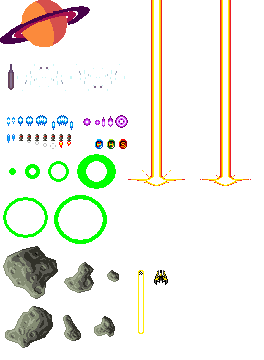
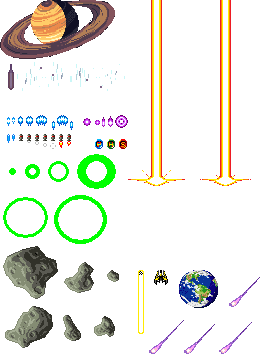
Polished some decorations in vertical levels

diff --git a/src/js/scenes/verticalLevels/VerticalBackground.js b/src/js/scenes/verticalLevels/VerticalBackground.js
@@ -18,31 +18,36 @@ export default class VerticalBackground extends Background{
         //decorations:
         for (let i = 0; i < st["planets"].length; i++) {
             const objSt = st["planets"][i];
-            Utils.createAnimFromAtlas(this.scene, objSt["sprite"]+"0"+i, "verticalAtlas", objSt["sprite"], 0, 2, 1, 0);
+            let numFrames = objSt["frames"] != null && objSt["frames"] > 1 ? objSt["frames"] - 1 : 0;
+            Utils.createAnimFromAtlas(this.scene, objSt["sprite"]+"0"+i, "verticalAtlas", objSt["sprite"], numFrames, 2, 10, -1);
             let obj = { 
                 "sprite": this.scene.add.sprite(5, 10, 'verticalAtlas', objSt["sprite"]+"0"+i), 
                 "x": objSt["x"], "y": objSt["y"], "z": objSt["z"],
                 "speedX": objSt["speedX"], "speedY": objSt["speedY"]
             }
+            //this.scene.physics.add.existing(obj.sprite);
+            //this.scene.physics.world.enable(obj.sprite); 
             obj.sprite.x = obj.x;
             obj.sprite.y = obj.y;
+            //obj.sprite.setVelocity(objSt["speedX"],objSt["speedY"]);
             this.decorations.push(obj);
+            if (numFrames > 0) { obj.sprite.play(objSt["sprite"]+"0"+i); }
         }
 
         for (let i = 0; i < st["particles"].length; i++) {
             const objSt = st["particles"][i];
+            let numFrames = objSt["frames"] != null && objSt["frames"] > 1 ? objSt["frames"] - 1 : 0;
             for(let j = 0; j < objSt["density"]; j++){
-                const objSt = st["particles"][i];
-                Utils.createAnimFromAtlas(this.scene, objSt["sprite"]+"0"+i, "verticalAtlas", objSt["sprite"], 0, 1, 1, 0);
+                Utils.createAnimFromAtlas(this.scene, objSt["sprite"]+"0"+i, "verticalAtlas", objSt["sprite"], numFrames, 2, 10, -1);
                 let obj = { 
-                    "sprite": this.scene.add.sprite(5, 10, 'verticalAtlas', objSt["sprite"]+"0"+i), 
-                    "speedX": objSt["speedX"], "speedY": objSt["speedY"]
+                    "sprite": this.scene.add.sprite(0, 0, 'verticalAtlas', objSt["sprite"]+"0"+i), 
+                    "minSpeedY": objSt["minSpeedY"], "maxSpeedY": objSt["maxSpeedY"]
                 }
 
                 obj.sprite.x = Math.floor(Phaser.Math.Between(0, SCREEN_WIDTH));
                 obj.sprite.y = Math.floor(Phaser.Math.Between(-100, -50));
                 obj.sprite.setDepth(0);
-                obj.speedY   = Math.floor(Phaser.Math.Between(   1,  5));
+                obj.speedY   = Math.floor(Phaser.Math.Between(obj.minSpeedY, obj.maxSpeedY));
                 this.particles.push(obj);
             }
         }
@@ -50,51 +55,74 @@ export default class VerticalBackground extends Background{
         this.destinImg = this.scene.add.image(VERTICAL_LEVELS_WIDTH/2, 0, this.scene.destination).setOrigin(0.5, 0);
         this.destinImg.rotation += Math.PI;
         this.destinImg.setDepth(2);
+        this.countdown = 150;
     }
 
     launch(){
-        this.auxSpeed += 0.035;
-        if(this.planetImg.y < VERTICAL_LEVELS_HEIGHT + this.planetImg.height + this.framesToReachSpace){
-            this.planetImg.y += this.auxSpeed;
+        if(this.countdown >= 0){ this.countdown--; }
+        else {
+            this.scene.player.play("UP",true);
+            this.auxSpeed += 0.02;
+            if(this.planetImg.y < VERTICAL_LEVELS_HEIGHT + this.planetImg.height + this.framesToReachSpace){
+                this.planetImg.y += this.auxSpeed;
+            }
+            else if (this.atmosphere.alpha > 0){
+                this.atmosphere.alpha -= 0.004;
+                this.scene.player.y   -= SPACESHIP_SPEED;
+            }
+            else{ 
+                this.scene.player.speedY = -SPACESHIP_SPEED*2;
+                this.scene.introDone = true;
+            }
         }
-        else if (this.atmosphere.alpha > 0){
-            this.atmosphere.alpha -= 0.002;
-            this.scene.player.y   -= SPACESHIP_SPEED;
-        }
-        else{ 
-            this.scene.player.speedY = -SPACESHIP_SPEED*2;
-            this.scene.introDone = true;
-        }
+        this.update();
     }
 
     update(){
-        if(!this.scene.checkEndOfGame() || false){ //this.scene.enemiesGroup.getLength() > 0
-            for(let i = 0; i < this.decorations.length; i++){
-                let myObj = this.decorations[i];
-                myObj["sprite"].x += myObj.speedX / myObj.z;
-                myObj["sprite"].y = (myObj.speedY + this.scene.distanceReached) / myObj.z;
+        this.updateDecorations();
+        this.updateParticles();
+    }
+
+    updateDecorations(){
+        let st = this.scene.st["decorations"];
+        for(let i = 0; i < this.decorations.length; i++){
+            const objSt = st["planets"][i];
+            let myObj = this.decorations[i];
+            //myObj["sprite"].x = objSt.x;
+            myObj["sprite"].x += myObj.speedX / myObj.z;
+
+            if(this.scene.distanceReached <= 0 || this.scene.checkEndOfGame()){
+                myObj["sprite"].y += myObj.speedY / myObj.z;
+                objSt.y = myObj["sprite"].y
             }
-    
-            for(let i = 0; i < this.particles.length; i++){
-                let myObj = this.particles[i];
-                myObj["sprite"].x += myObj.speedX;
-                myObj["sprite"].y += myObj.speedY;
-                if (myObj["sprite"].y >= SCREEN_HEIGHT){
-                    myObj["sprite"].y = Math.floor(Phaser.Math.Between(-100, -50));
-                    myObj.speedY      = Math.floor(Phaser.Math.Between(   1,  5));
-                }
+            else if (myObj.speedY <= 0){
+                myObj["sprite"].y = objSt.y + this.scene.distanceReached / myObj.z;
+            }
+            else{
+               myObj["sprite"].y = objSt.y + this.scene.distanceReached*myObj.speedY / myObj.z;
             }
         }
-        else if (!this.scene.levelCleared){
-            for(let i = 0; i < this.particles.length; i++){
-                let myObj = this.particles[i];
-                myObj["sprite"].x += myObj.speedX;
-                myObj["sprite"].y += myObj.speedY;
+    }
+    
+    updateParticles(){
+        for(let i = 0; i < this.particles.length; i++){
+            let myObj = this.particles[i];
+            myObj["sprite"].y += myObj.speedY;
+
+            //opacity:
+            if(this.countdown >= 0){
+                myObj["sprite"].alpha = 0;
+            }
+            else if(!this.scene.introDone && myObj["sprite"].alpha <= 1){
+                myObj["sprite"].alpha += 0.002;
+            }
+            else if(this.scene.checkEndOfGame() && !this.scene.levelCleared){ //this.scene.enemiesGroup.getLength() > 0
                 myObj["sprite"].alpha -= 0.002;
-                if (myObj["sprite"].y >= SCREEN_HEIGHT){
-                    myObj["sprite"].y = Math.floor(Phaser.Math.Between(-100, -50));
-                    myObj.speedY      = Math.floor(Phaser.Math.Between(   1,  5));
-                }
+            }
+    
+            if (myObj["sprite"].y >= SCREEN_HEIGHT){
+                myObj["sprite"].y = Math.floor(Phaser.Math.Between(-100, -50));
+                myObj.speedY      = Math.floor(Phaser.Math.Between(myObj.minSpeedY, myObj.maxSpeedY));
             }
         }
     }

diff --git a/src/js/scenes/verticalLevels/NivelVertical.js b/src/js/scenes/verticalLevels/NivelVertical.js
@@ -102,7 +102,7 @@ export default class NivelVertical extends Nivel {
 
 	generateEnemy() {
 		//generar una nueva roca:
-		if(this.enemiesGroup.getLength() < this.density && !this.victoryCondition()){
+		if(this.enemiesGroup.getLength() < this.density && this.distanceReached + 200 < this.st["levelLength"] ){
 			// determina una posición aleatoria para el nuevo enemigo
 			let newX = Phaser.Math.Between(0, this.game.config.width);
 
@@ -148,38 +148,34 @@ export default class NivelVertical extends Nivel {
     }
 
     update(){
-		super.update();
-		this.bg.update();
-		
-		if(!this.introDone){ this.bg.launch(); }
-		else{ this.generateEnemy(); }
-
-		if(!this.introDone) { 
-			this.bg.launch();
-			this.player.play("UP",true);
-		}
-		else if (!this.checkEndOfGame() || this.enemiesGroup.getLength() > 0) {
-
-			//progress bar logic:
-			if (this.icon.y > 10){
-				this.icon.y = 10 + this.pBar.height - Math.floor((this.distanceReached / this.st["levelLength"])*this.pBar.height);
+		super.update();		
+		if(!this.introDone) { this.bg.launch(); }
+		else {
+			this.bg.update();
+			this.generateEnemy();
+			
+			if (!this.checkEndOfGame() || this.enemiesGroup.getLength() > 0) {
+				//progress bar logic:
+				if (this.icon.y > 10){
+					this.icon.y = 10 + this.pBar.height - Math.floor((this.distanceReached / this.st["levelLength"])*this.pBar.height);
+				}
+	
+				//check space key to shoot bullet:
+				if (this.input.keyboard.checkDown(this.cursors.space, 250) && this.numBullets>0) {
+					this.fire();
+					this.numBullets--;
+					this.scoreText.setText('BULLETS: ' + this.numBullets);
+				}
+	
+				this.player.handleMovement(); 
+				this.distanceReached++;
 			}
-
-			//check space key to shoot bullet:
-			if (this.input.keyboard.checkDown(this.cursors.space, 250) && this.numBullets>0) {
-				this.fire();
-				this.numBullets--;
-				this.scoreText.setText('BULLETS: ' + this.numBullets);
+			else if(!this.levelCleared){ 
+				this.player.play("DOWN",true);
+				this.bg.endOfGame();
 			}
-
-			this.player.handleMovement(); 
-			this.distanceReached++;
+			else{ this.finishLevel(); }
 		}
-		else if(!this.levelCleared){ 
-			this.player.play("DOWN",true);
-			this.bg.endOfGame();
-		}
-		else{ this.finishLevel(); }
 	}
 		
 	victoryCondition(){ return this.distanceReached >= this.st["levelLength"]; }
